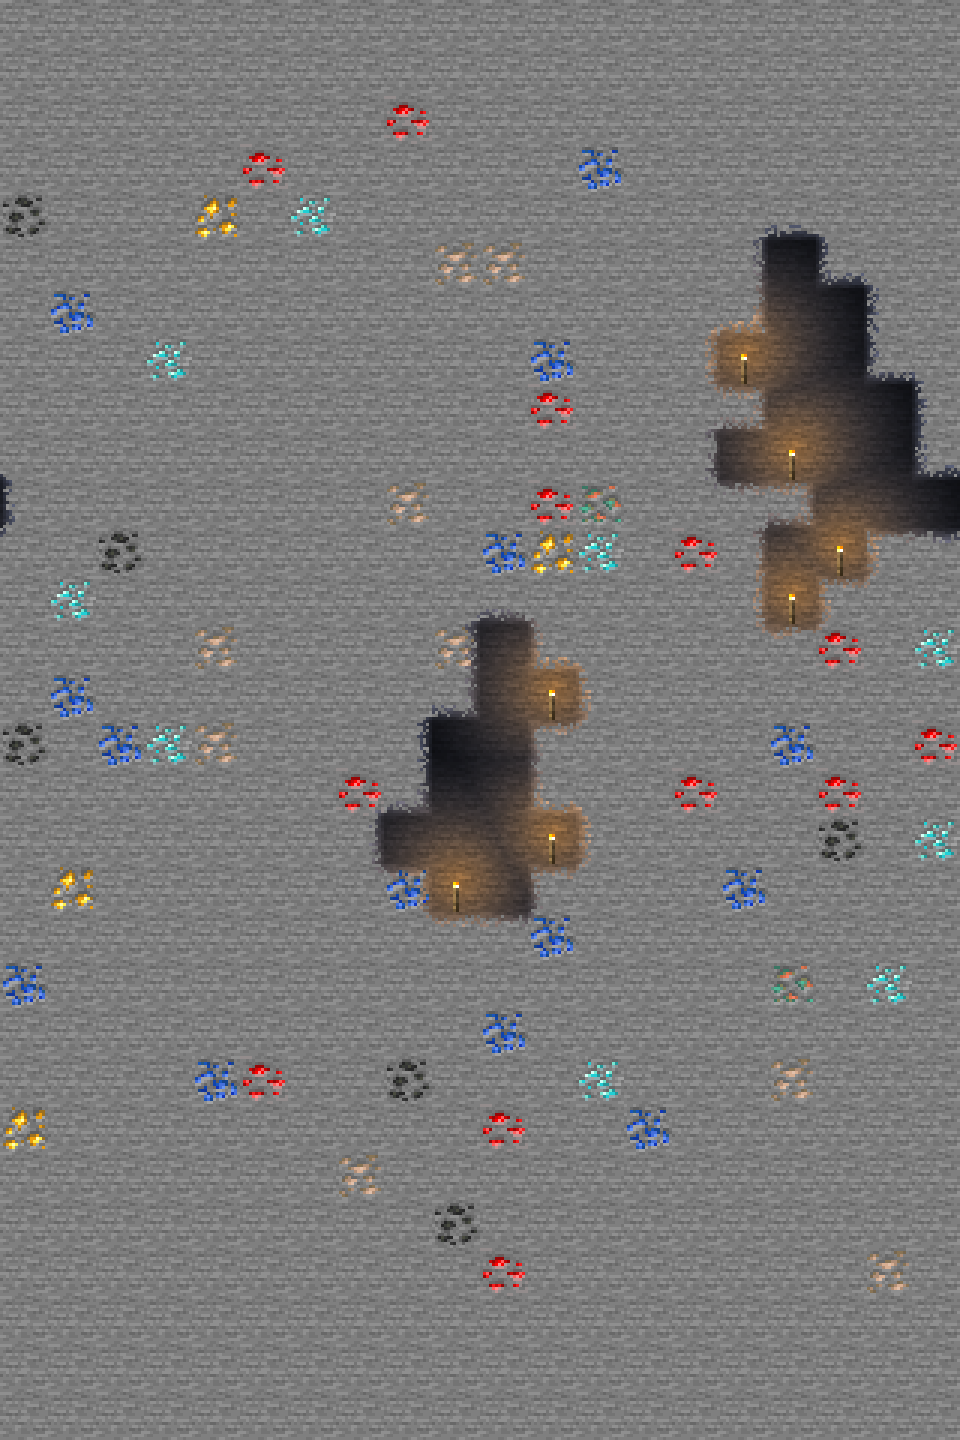
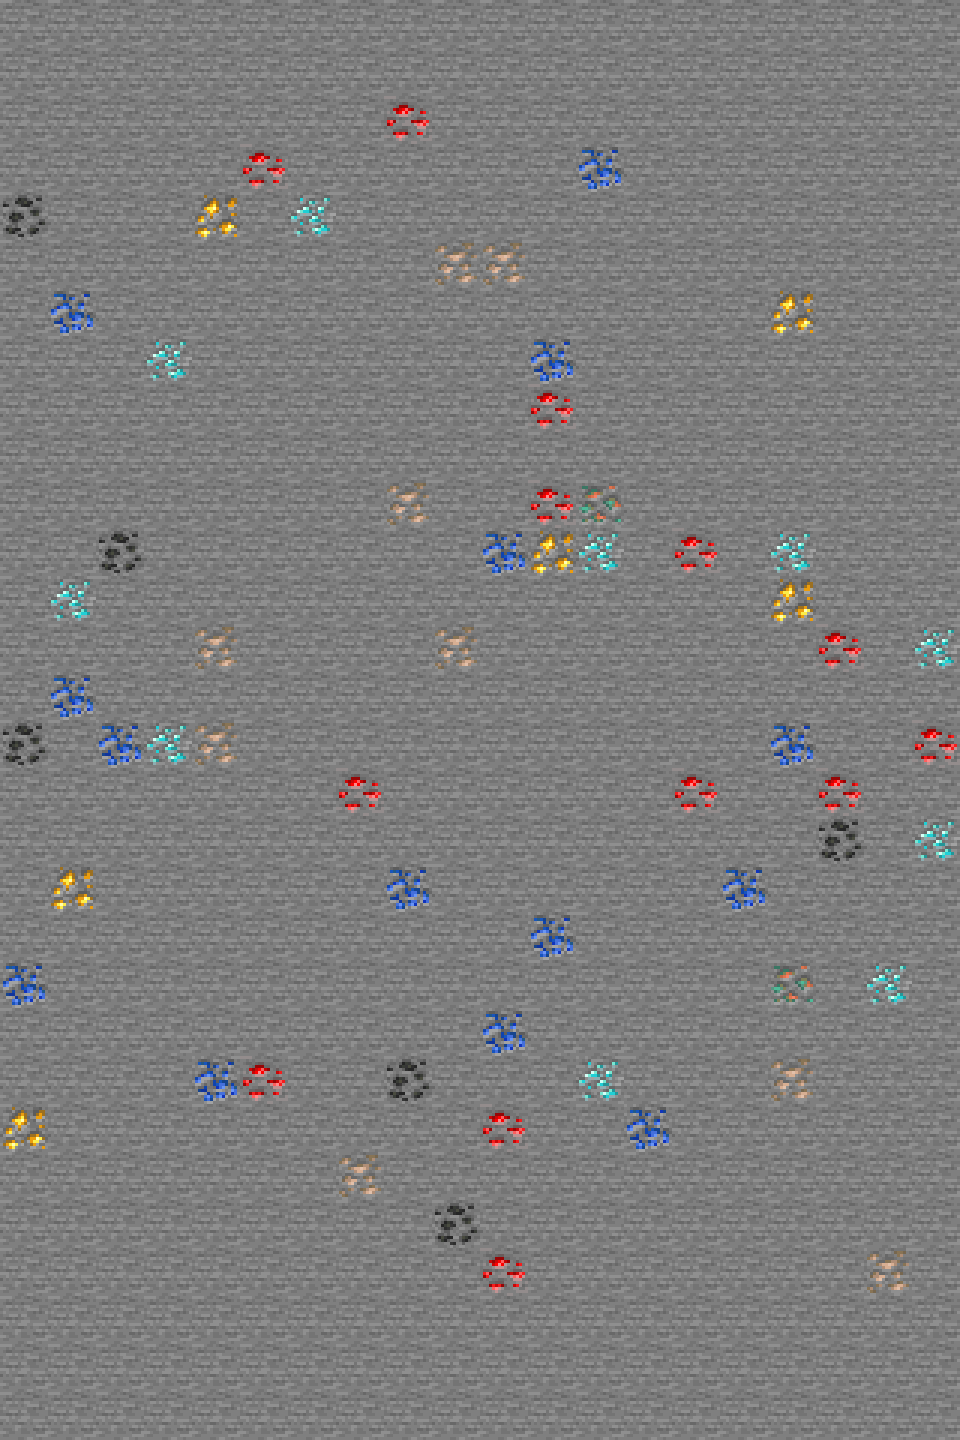
Wiki: drop the caves from the background; ores still get richer with depth

Changed region(s): [[0.7188, 0.1562, 1.0, 0.4375], [0.375, 0.4062, 0.625, 0.6562], [0.0, 0.3125, 0.0312, 0.375]]

diff --git a/tools/wiki/build.py b/tools/wiki/build.py
@@ -232,7 +232,7 @@ def build_extras(vanilla):
 
 def build_landscape(vanilla, img):
     """The page background, painted pixel by pixel in game pixels (the CSS shows it at 3x): a sky that pales to a hazy
-    horizon with clouds and far hills, uneven grass with flowers, dirt that dithers into stone, and stone with the odd cave and ores that
+    horizon with clouds and far hills, uneven grass with flowers, dirt that dithers into stone, and stone with ores that
     get more common and richer with depth. It tiles sideways; below it the CSS repeats a tall stone tile that matches its bottom edge, which lines up because
     the strip is a whole number of 16-pixel texture rows tall."""
     import math
@@ -299,15 +299,14 @@ def build_landscape(vanilla, img):
     stone_t = np.array(vanilla.texture("block/stone"))
     ore_tex = {n: np.array(vanilla.texture("block/%s_ore" % n)) for n in ("coal", "iron", "copper", "lapis", "gold", "redstone", "diamond")}
 
-    def rock(h, depth0, depth1, y_off, caves, margin=0, bottom=0):
+    def rock(h, depth0, depth1, y_off, margin=0, bottom=0):
         """Stone rows y_off..y_off+h-1 (texture phase kept so rows line up with the tiled CSS), with ores that get more common
-        and richer as depth goes from depth0 to depth1 (0..1), and a few caves."""
+        and richer as depth goes from depth0 to depth1 (0..1)."""
         g = random.Random(h + int(y_off))
         area = np.zeros((h, W, 4), np.uint8)
         for y in range(h):
             for x in range(W):
                 area[y, x] = stone_t[(y + y_off) % 16, x % 16]
-        plain = area.copy()
         for by in range(margin // 16, (h - bottom) // 16):
             f = depth0 + (depth1 - depth0) * (by * 16 / max(1, h))
             for bx in range(W // 16):
@@ -321,61 +320,9 @@ def build_landscape(vanilla, img):
                     if r_ <= 0:
                         break
                 area[by * 16:by * 16 + 16, bx * 16:bx * 16 + 16] = ore_tex[n]
-        # caves: clusters of whole blocks (grown by a random walk on the block grid), dark inside, outlined, and lit by torches
-        cols = W // 16
-        mask = np.zeros((h, W), bool)
-        torches = []
-        for _ in range(caves):
-            cell = (g.randrange(cols), g.randint((margin + 16) // 16, (h - bottom - 32) // 16))
-            blocks = {cell}
-            for _s in range(g.randint(18, 34)):
-                bx, by = g.choice(sorted(blocks))
-                dx, dy = g.choice(((1, 0), (-1, 0), (1, 0), (-1, 0), (0, 1), (0, -1)))
-                nb = ((bx + dx) % cols, by + dy)
-                if (margin + 16) // 16 <= nb[1] < (h - bottom) // 16:
-                    blocks.add(nb)
-            for bx, by in blocks:
-                mask[by * 16:by * 16 + 16, bx * 16:bx * 16 + 16] = True
-            floors = sorted(b for b in blocks if (b[0], b[1] + 1) not in blocks)
-            for bx, by in g.sample(floors, min(len(floors), 2 + len(blocks) // 9)):
-                torches.append((bx, by))
-        yy, xx = np.mgrid[0:h, 0:W]
-        light = np.zeros((h, W), np.float32)
-        for bx, by in torches:
-            tx, ty = bx * 16 + 8, by * 16 + 5
-            dx = np.minimum(np.abs(xx - tx), W - np.abs(xx - tx))
-            d = np.sqrt(dx ** 2 + (yy - ty) ** 2)
-            light = np.maximum(light, np.clip(1 - d / 46.0, 0, 1) ** 1.4)
-        cool, warm = np.array((0.75, 0.8, 1.0), np.float32), np.array((1.1, 0.78, 0.45), np.float32)
-        lt = light[..., None]
-        wall = plain[..., :3].astype(np.float32) * (0.16 + 0.95 * lt) * (cool * (1 - lt) + warm * lt)
-        def grow(m):  # a pixel next to the set, 4-neighbourhood (wrapping sideways)
-            o = m.copy()
-            o |= np.roll(m, 1, 1) | np.roll(m, -1, 1)
-            o[1:] |= m[:-1]
-            o[:-1] |= m[1:]
-            return o
-        area[..., :3][mask] = np.clip(wall[mask], 0, 255).astype(np.uint8)
-        # the edge is ragged like the grass over dirt, but dithers outwards: the cave is solid right up to its edge, and the stone
-        # around it is darkened (and torch-lit) in a band that breaks up over a few pixels
-        outer, cur = [], mask
-        for _k in range(5):
-            nxt = grow(cur)
-            outer.append(nxt & ~cur)
-            cur = nxt
-        for k, edge in enumerate(outer):
-            pick = edge & (np.random.RandomState(k + 3).rand(h, W) < 1.0 - 0.2 * k)
-            l = light[pick][:, None]
-            col = plain[..., :3][pick].astype(np.float32) * (0.28 + 0.14 * k + 0.9 * l) * (cool * (1 - l) + warm * l)
-            area[..., :3][pick] = np.clip(col, 0, 255).astype(np.uint8)
-        out_im = Image.fromarray(area, "RGBA")
-        torch_im = vanilla.texture("block/torch")
-        for bx, by in torches:
-            out_im.alpha_composite(torch_im, (bx * 16, by * 16))
-        area = np.array(out_im)
         return area
 
-    stone = rock(H, 0.0, 1.0, 0, 6, margin=DIRT_END + 60)
+    stone = rock(H, 0.0, 1.0, 0, margin=DIRT_END + 60)
     # ---- dirt that dithers into stone over a ragged band
     grass_dark, grass_mid, grass_lit = (74, 128, 40), (104, 166, 56), (150, 206, 84)
     for x in range(W):
@@ -419,7 +366,7 @@ def build_landscape(vanilla, img):
     out.resize((W * 3, H * 3), Image.NEAREST).save(img / "landscape.png")
     # the endless stone below the strip: one tall tile, as rich in ores as the strip's bottom, repeated by the CSS
     TILE = 480
-    Image.fromarray(rock(TILE, 1.0, 1.0, 0, 2, margin=40, bottom=40), "RGBA").resize((W * 3, TILE * 3), Image.NEAREST).save(img / "underground.png")
+    Image.fromarray(rock(TILE, 1.0, 1.0, 0, margin=40, bottom=40), "RGBA").resize((W * 3, TILE * 3), Image.NEAREST).save(img / "underground.png")
     if (img / "stone.png").exists():
         (img / "stone.png").unlink()
 
